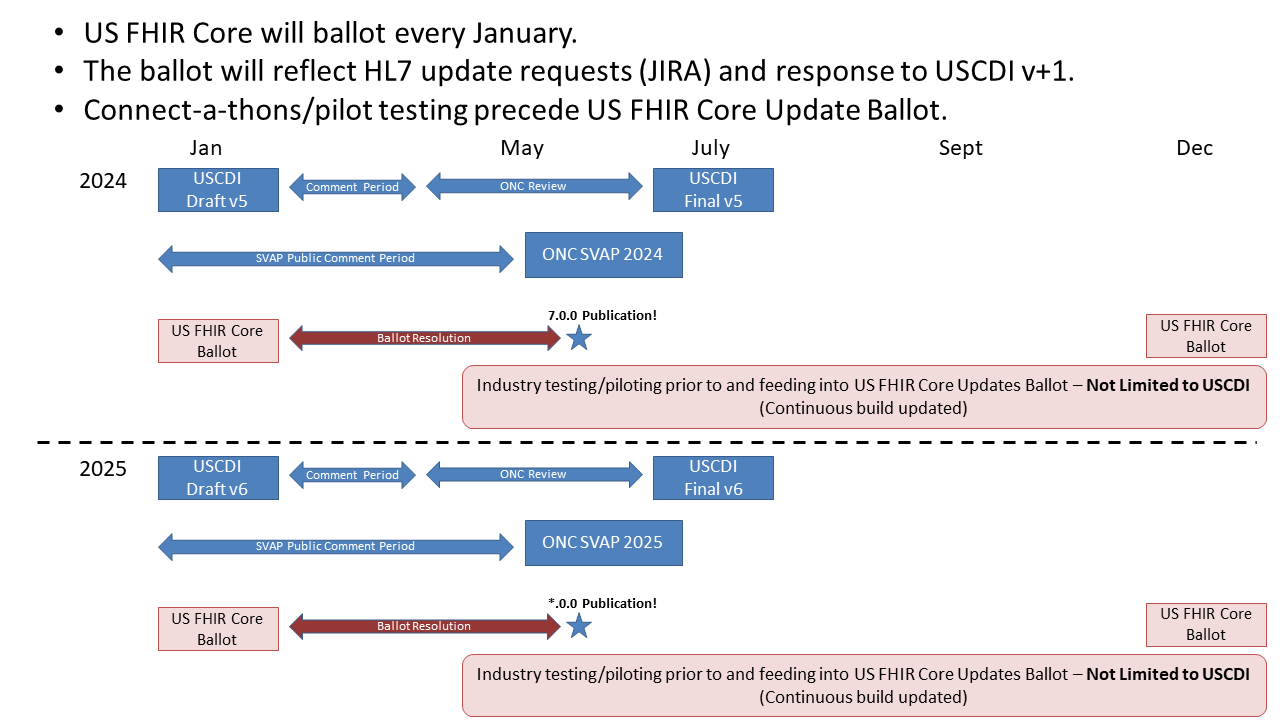
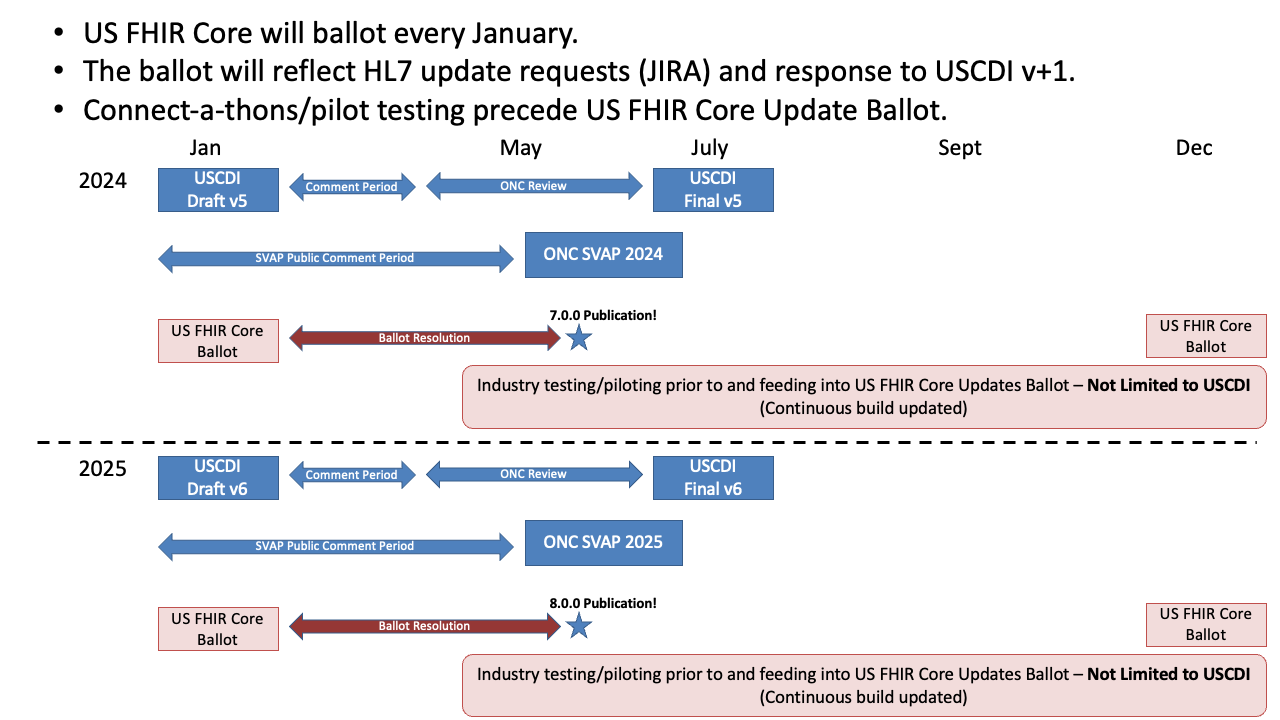
FHIR-49309 FHIR-49376 FHIR-49338 FHIR-49392

diff --git a/input/pagecontent/changes.md b/input/pagecontent/changes.md
@@ -26,6 +26,8 @@ The ballot-related comments resulted in over 100 changes to this specification, 
 7.  **Terminology** () US Core detailed ethnicity expansion error [FHIR-46638](https://jira.hl7.org/browse/FHIR-46638) See Changes [Here](ValueSet-detailed-ethnicity.html)
 8.  **Publishing:** () Fix the US Core History Page [FHIR-46749](https://jira.hl7.org/browse/FHIR-46749) See Changes [Here](history.html)
 9.  **Publishing:** (Enhancement) How to deal with searchparameters in the package that only convey expectations [FHIR-48876](https://jira.hl7.org/browse/FHIR-48876)
+10.  **Publishing:** () Hyperlink discrepancy [FHIR-49336](https://jira.hl7.org/browse/FHIR-49336) See Changes [Here](StructureDefinition-us-core-diagnosticreport-lab.html#terminology-bindings-differential)
+11. **Publishing:** () Hyperlink discrepancy [FHIR-49337](https://jira.hl7.org/browse/FHIR-49337) See Changes [Here](StructureDefinition-us-core-observation-lab.html#terminology-bindings-differential)
 
 ---
 
@@ -93,13 +95,10 @@ The ballot-related comments resulted in over 100 changes to this specification, 
        - [US Core Observation ADI Documentation Profile](StructureDefinition-us-core-observation-adi-documentation.html)
 46. **Applied:** (Correction) Fix typo "HSLOC" instead of "HLSOC" [FHIR-49301](https://jira.hl7.org/browse/FHIR-49301) See Changes [Here](ValueSet-us-core-location-type.html)
 47. **Applied:** (Clarification) Add version lineage to the US Core Observation Screening Assessment Profile's introduction. [FHIR-49305](https://jira.hl7.org/browse/FHIR-49305) See Changes [Here](index.html)
-48. **Resolved - change required:** (Correction) Corrections to typos [FHIR-49306](https://jira.hl7.org/browse/FHIR-49306) See Changes [Here]()
-49. **Resolved - change required:** (Correction) Fix typo 'Advance Directives' instead 'Advanced Directives' [FHIR-49307](https://jira.hl7.org/browse/FHIR-49307) See Changes [Here](StructureDefinition-us-core-adi-documentreference.html)
+48. **Applied:** (Correction) Corrections to typos [FHIR-49306](https://jira.hl7.org/browse/FHIR-49306)
+49. **Applied:** (Correction) Fix typo 'Advance Directives' instead  of 'Advanced Directives' [FHIR-49307](https://jira.hl7.org/browse/FHIR-49307) See Changes [Here](StructureDefinition-us-core-adi-documentreference.html)
 50. **Applied:** (Enhancement) Add Observation.code.text as an *Additional USCDI* element  [FHIR-49308](https://jira.hl7.org/browse/FHIR-49308) See Changes [Here](StructureDefinition-us-core-observation-lab-definitions.html#Observation.code)
-51. **Triaged:** (Enhancement) US Core CarePlan should not require category of 'assess-plan' [FHIR-49309](https://jira.hl7.org/browse/FHIR-49309) See Changes [Here]()
-52. **Triaged:** () Hyperlink discrepancy [FHIR-49335](https://jira.hl7.org/browse/FHIR-49335) See Changes [Here](StructureDefinition-us-core-diagnosticreport-lab.html#terminology-bindings-differential)
-53. **Triaged:** () Hyperlink discrepancy [FHIR-49336](https://jira.hl7.org/browse/FHIR-49336) See Changes [Here](StructureDefinition-us-core-diagnosticreport-lab.html#terminology-bindings-differential)
-54. **Triaged:** () Hyperlink discrepancy [FHIR-49337](https://jira.hl7.org/browse/FHIR-49337) See Changes [Here](StructureDefinition-us-core-observation-lab.html#terminology-bindings-differential)
+51. **Applied:** (Enhancement) Change the slice for category 'assess-plan' from 1..1 Must Support to 0..1 Must Support. [FHIR-49309](https://jira.hl7.org/browse/FHIR-49309) See Changes [Here](StructureDefinition-us-core-careplan.html)
 55. **Resolved - change required:** (Clarification) Cardinality does not match element definition [FHIR-49338](https://jira.hl7.org/browse/FHIR-49338) See Changes [Here](StructureDefinition-us-core-diagnosticreport-lab.html#profile)
 56. **Triaged:** (Enhancement) Please add a ""Plain Language Summary about this Guide"" to the home page [FHIR-49367](https://jira.hl7.org/browse/FHIR-49367) See Changes [Here](index.html)
 57. **Resolved - change required:** (Correction) Typo in US Core Yearly Updates diagram [FHIR-49376](https://jira.hl7.org/browse/FHIR-49376) See Changes [Here](future-of-US-core.html)

diff --git a/input/intro-notes/StructureDefinition-us-core-patient-intro.md b/input/intro-notes/StructureDefinition-us-core-patient-intro.md
@@ -45,8 +45,7 @@ The following data elements must always be present ([Mandatory] definition) or m
 
 **Profile Specific Implementation Guidance:**
 - Notes for *Race*, *Ethnicity*, *Date of Death*, *Name to Use*, *Previous Name*, *Suffix*, *Previous Address*, *Interpreter Needed*, and *Preferred Language* USCDI Data Elements: 
-  - The Complex Extensions for *Race* and *Ethnicity* allow for one or more codes of which:
-    - [Must Support] at least one category code from the OMB Race and Ethnicity Categories
+  - <span class="bg-success" markdown="1">The Complex Extensions for Race and Ethnicity allow for one or more codes of which: [Must Support] at least one category code from the OMB Race and Ethnicity Category Value Sets that draw from the [Race & Ethnicity - CDC(CDCREC)] code system.</span><!-- new-content -->
     - **MAY** include additional detailed codes from CDC Race and Ethnicity Codes
     - **SHALL** include a text description
   - *Date of Death* is communicated using the `Patient.deceasedDateTime` element.

diff --git a/input/intro-notes/StructureDefinition-us-core-careplan-intro.md b/input/intro-notes/StructureDefinition-us-core-careplan-intro.md
@@ -13,14 +13,15 @@ The following data elements must always be present ([Mandatory] definition) or m
 **Each CarePlan Must Have:**
 
 1. a status
-1. an intent
-1. a category code of "assess-plan"
-1. a patient
+1. a category
+2. an intent
+3. a patient
 
 
 **Each CarePlan Must Support:**
 
 1. a narrative summary of the patient assessment and plan of treatment*
+1. <span class="bg-success" markdown="1">a category code of "assess-plan"</span><!-- new-content -->
 
 <div class="bg-success" markdown="1">
 

diff --git a/input/includes/link-list.md b/input/includes/link-list.md
@@ -362,3 +362,4 @@
 [Get All Active Medications]: medication-list.html#get-all-active-medications
 [International Patient Access (IPA)]: https://hl7.org/fhir/uv/ipa/
 [International Patient Summary (IPS)]: https://hl7.org/fhir/uv/ips/STU1.1/
+[Race & Ethnicity - CDC(CDCREC)]: https://phinvads.cdc.gov/vads/ViewCodeSystem.action?id=2.16.840.1.113883.6.238

diff --git a/input/pagecontent/us-core-roadmap.md b/input/pagecontent/us-core-roadmap.md
@@ -14,10 +14,7 @@ The USCDI version links to its respective ONC Standards Bulletin, which provides
 
 Our yearly road map is outlined in the figure below:
 
-
-
 {% include img.html img="yearly-updates.png" caption="Figure 1: US Core Yearly Updates" %}
-
 
 ### FHIR Version Support
 
